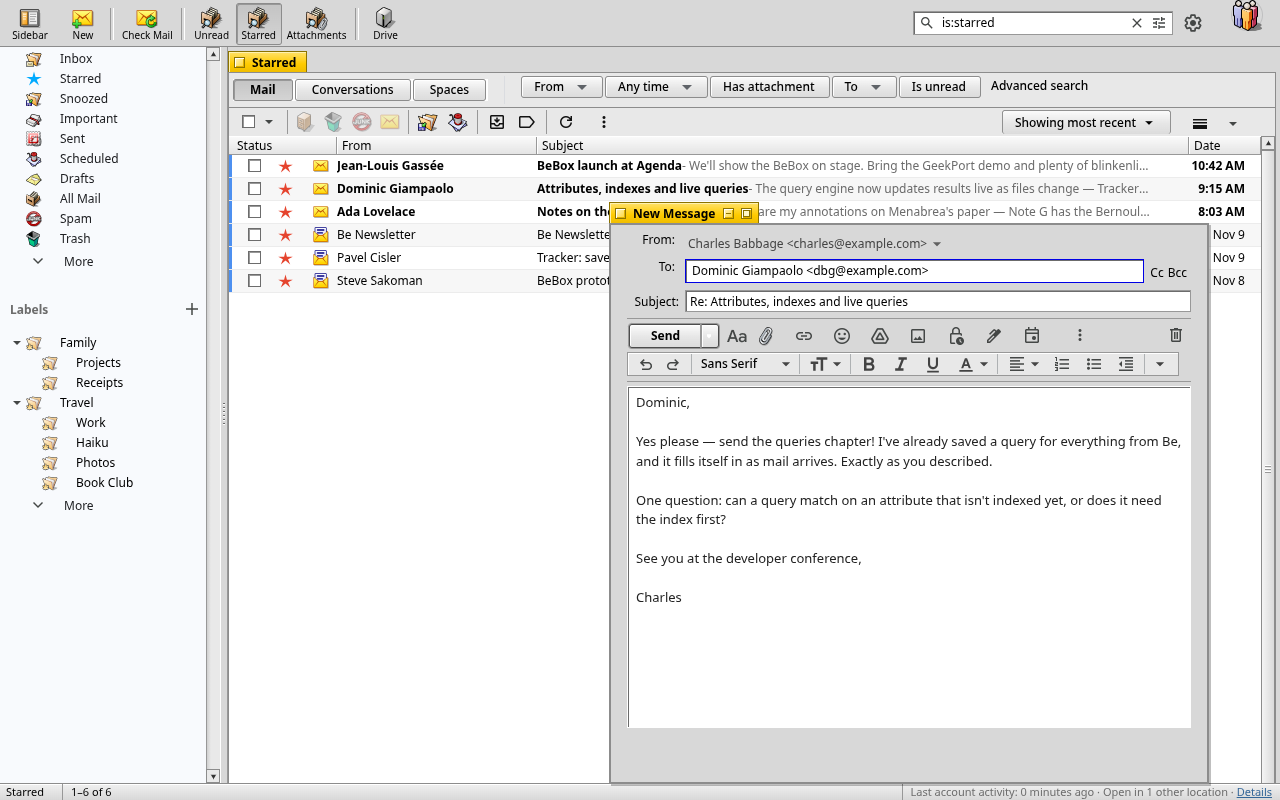
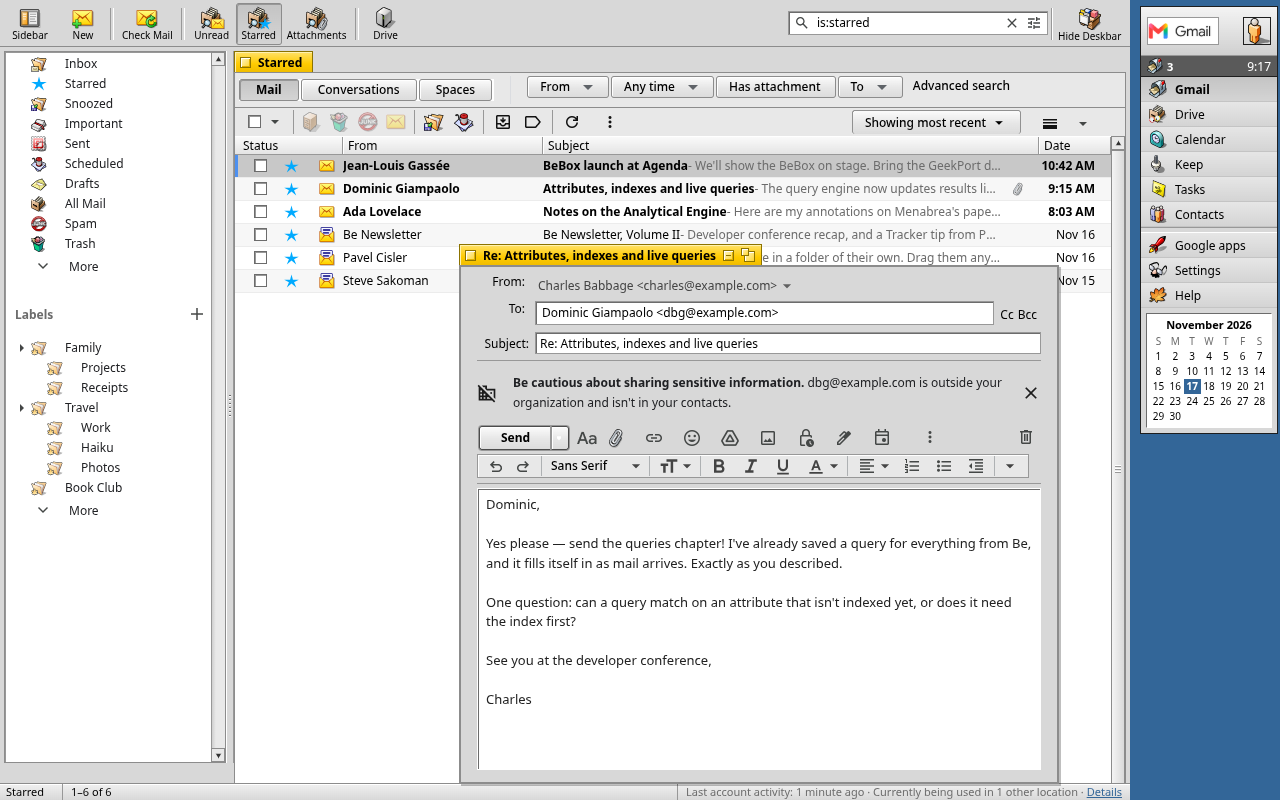
Store screenshots for 1.4.1, with a reusable sample-data script

diff --git a/tools/store-sample.js b/tools/store-sample.js
@@ -1,0 +1,173 @@
+// Sample data for the store screenshots (run in the test window's Gmail page
+// via crdrive.py / ffdrive.py {"js": ...}; see store/LISTING.md).
+//
+// Rewrites what is on screen only - names, subjects, labels, the account
+// picture - so no real mail shows in the pictures. Nothing is sent to Gmail;
+// a page reload brings the real page back. Defines window.haikuSample with
+// one function per scene part; each returns a short report.
+(() => {
+  const ME = { name: "Charles Babbage", email: "charles@example.com" };
+  const INBOX = [
+    ["Jean-Louis Gassée", "jlg@example.com", "BeBox launch at Agenda", "We'll show the BeBox on stage. Bring the GeekPort demo and plenty of blinkenlights.", "10:42 AM", 1, 1],
+    ["Dominic Giampaolo", "dbg@example.com", "Attributes, indexes and live queries", "The query engine now updates results live as files change — Tracker just watches.", "9:15 AM", 1, 1],
+    ["Ada Lovelace", "ada@example.com", "Notes on the Analytical Engine", "Here are my annotations on Menabrea's paper — Note G has the Bernoulli numbers.", "8:03 AM", 1, 1],
+    ["Be Newsletter", "newsletter@example.com", "Be Newsletter, Volume II", "Developer conference recap, and a Tracker tip from Pavel.", "Nov 16", 0, 1],
+    ["Pavel Cisler", "pavel@example.com", "Tracker: saved queries", "Queries now live in a folder of their own. Drag them anywhere you like.", "Nov 16", 0, 1],
+    ["Steve Sakoman", "sakoman@example.com", "BeBox prototype boards", "The dual-603 boards are back from the fab, and the lights blink!", "Nov 15", 0, 1],
+    ["Grace Hopper", "grace@example.com", "Compiler meeting moved to Thursday", "Same room as last time. Bring the nanoseconds.", "Nov 15", 0, 0],
+    ["Haiku Weekly", "weekly@example.com", "What's new in R1/beta6", "Faster networking, new icons and a better Tracker.", "Nov 14", 0, 0],
+    ["Alan Turing", "alan@example.com", "Chess puzzle for you", "White to move and mate in three. No machines allowed!", "Nov 13", 0, 0],
+    ["Hedy Lamarr", "hedy@example.com", "Frequency hopping patent", "The paperwork came back. We should celebrate!", "Nov 12", 0, 0],
+  ];
+  // [name, depth]
+  const LABELS = [["Family", 0], ["Projects", 1], ["Receipts", 1], ["Travel", 0], ["Work", 1], ["Haiku", 1], ["Photos", 1], ["Book Club", 0]];
+
+  const vis = (sel, root = document) => [...root.querySelectorAll(sel)].filter((e) => e.offsetParent || e.getClientRects().length);
+  const setText = (el, t) => { if (el) el.textContent = t; };
+  const iconBase = (() => {
+    const img = document.querySelector(".haiku-toolbar img");
+    return img ? img.src.replace(/[^/]+\.svg.*$/, "") : "";
+  })();
+
+  // The list on screen: `rows` sample rows, the rest hidden.
+  function list(only) {
+    const rows = only ? INBOX.filter((r) => r[6]) : INBOX;
+    let trs = vis('[role="main"] tr.zA');
+    // Fewer real rows than sample ones: copies of the last row fill the list.
+    while (trs.length && trs.length < rows.length) {
+      const copy = trs[trs.length - 1].cloneNode(true);
+      copy.dataset.haikuSampleCopy = "";
+      trs[trs.length - 1].after(copy);
+      trs = vis('[role="main"] tr.zA');
+    }
+    trs.forEach((tr, i) => {
+      const r = rows[i];
+      if (!r) { tr.style.display = "none"; return; }
+      const [name, email, subject, snippet, date, unread, starred] = r;
+      tr.classList.toggle("zE", !!unread);
+      tr.classList.toggle("yO", !unread);
+      // The sender cell: one sample sender, whatever Gmail put there (a
+      // search shows every person in the conversation).
+      const yw = tr.querySelector("td.yX .yW");
+      if (yw) {
+        const who = document.createElement("span");
+        who.className = unread ? "zF" : "yP";
+        who.setAttribute("name", name); who.setAttribute("email", email);
+        who.textContent = name;
+        const wrap = document.createElement("span");
+        wrap.className = "bA4";
+        wrap.append(who);
+        yw.replaceChildren(wrap);
+      }
+      tr.querySelectorAll("td.yX .bx0, td.yX .afn").forEach((e) => e.remove());
+      const subj = tr.querySelector(".y6 .bog span") || tr.querySelector(".y6 .bog");
+      setText(subj, subject);
+      tr.querySelectorAll(".y6 .bog").forEach((b) => b.classList.toggle("bqe", !!unread));
+      const snip = tr.querySelector("span.y2");
+      if (snip) snip.textContent = ` - ${snippet}`;
+      tr.querySelectorAll(".yi .ar, .xT .ar, .brd, .aKS").forEach((e) => e.remove());
+      const d = tr.querySelector("td.xW span[title]");
+      if (d) { d.setAttribute("title", date); d.setAttribute("aria-label", date); setText(d.querySelector("span") || d, date); }
+      const star = tr.querySelector("td.apU span.T-KT");
+      if (star) {
+        star.className = starred ? "T-KT xn Uieduc" : "T-KT";
+        const t = starred ? "Starred" : "Not starred";
+        star.setAttribute("aria-label", t); star.setAttribute("data-tooltip", t);
+      }
+    });
+    const n = Math.min(trs.length, rows.length);
+    vis('[role="main"] .Dj, [gh="mtb"] .Dj').forEach((p) => { p.textContent = `1–${n} of ${n}`; });
+    return `list: ${n} rows (of ${trs.length})`;
+  }
+
+  // The folder list's labels, the account and the counts.
+  function chrome(unread = 3) {
+    const nav = document.querySelector(".aqn.aIH");
+    let done = 0;
+    if (nav) {
+      // Gmail's own folders keep their names; only the user's labels change.
+      const rows = vis(".aim", nav).filter((r) => r.querySelector('a[href*="#label/"]'));
+      rows.forEach((row, i) => {
+        const l = LABELS[i];
+        if (!l) { row.style.display = "none"; return; }
+        const a = row.querySelector("a");
+        if (a) { a.textContent = l[0]; a.setAttribute("aria-label", l[0]); a.title = l[0]; }
+        row.querySelectorAll(".bsU").forEach((c) => { c.textContent = ""; });
+        const tn = row.querySelector(".TN");
+        if (tn) tn.setAttribute("style", `margin-left: ${12 * l[1]}px`);
+        // An expand arrow only on a label with sublabels under it.
+        const next = LABELS[i + 1];
+        row.querySelectorAll(".TH").forEach((a) => { a.style.visibility = next && next[1] > l[1] ? "visible" : "hidden"; });
+        row.querySelectorAll(".n0").forEach((b) => { b.style.fontWeight = "normal"; });
+        done++;
+      });
+      vis(".aim", nav).forEach((row) => { const c = row.querySelector(".bsU"); if (c && /inbox/i.test(row.textContent)) c.textContent = String(unread); });
+    }
+    // The account picture and the Workspace logo the Deskbar copies.
+    const face = document.querySelector('header a[aria-label^="Google Account"] img');
+    if (face && iconBase) face.src = `${iconBase}person.svg`;
+    const lockup = document.querySelector('header img[src*="logo_gmail"]');
+    const logo = [...document.querySelectorAll("header img")].find((i) => /logo\.gif/.test(i.src));
+    if (logo && lockup) {
+      const pill = logo.closest('[role="button"]');
+      if (pill) pill.style.display = "none";
+      logo.src = lockup.src;
+    }
+    document.querySelectorAll("#haiku-deskbar .hd-top img").forEach((i, k) => { i.src = k === 0 ? (lockup ? lockup.src : "") : `${iconBase}person.svg`; });
+    // Window title (status bar, Deskbar count) without the address.
+    const folder = (document.title.split(" - ")[0] || "Inbox").replace(/\s*\(\d[\d,]*\)$/, "");
+    document.title = `${folder}${unread && /^Inbox/.test(folder) ? ` (${unread})` : ""} - ${ME.email} - Gmail`;
+    const count = document.querySelector("#haiku-deskbar .hd-count");
+    if (count) count.textContent = String(unread);
+    return `labels: ${done}`;
+  }
+
+  // The open message.
+  function message(m) {
+    const subj = vis("h2.hP")[0];
+    setText(subj, m.subject);
+    // The label chips beside the subject (External, Inbox, Updates...).
+    document.querySelectorAll(".ha .aau, .ha .ahR").forEach((e) => e.style.setProperty("visibility", "hidden", "important"));
+    const msg = vis(".adn")[0];
+    if (!msg) return "no message";
+    const from = msg.querySelector(".gD");
+    if (from) { from.textContent = m.name; from.setAttribute("name", m.name); from.setAttribute("email", m.email); }
+    const pic = msg.querySelector(".aju img.ajn");
+    if (pic && iconBase) pic.src = `${iconBase}person.svg`;
+    const go = msg.querySelector(".go");
+    if (go) go.textContent = `<${m.email}>`;
+    msg.querySelectorAll(".gE .g3").forEach((d) => { d.textContent = m.date; d.title = m.date; });
+    msg.querySelectorAll(".gE .Ca, .gE .aVp, .gE [role=link][data-tooltip*=nsubscribe]").forEach((e) => (e.style.display = "none"));
+    const to = msg.querySelector(".hb .g2, .hb span[email]");
+    if (to) { to.textContent = "me"; to.setAttribute("email", ME.email); }
+    const body = msg.querySelector(".a3s");
+    if (body) {
+      body.replaceChildren(...m.body.map((p) => { const d = document.createElement("div"); d.textContent = p; d.style.margin = "0 0 12px"; return d; }));
+    }
+    document.querySelectorAll(".haiku-status-folder").forEach((e) => (e.textContent = m.subject));
+    document.title = `${m.subject} - ${ME.email} - Gmail`;
+    const count = document.querySelector("#haiku-deskbar .hd-count");
+    if (count) count.textContent = String(m.unread == null ? 3 : m.unread);
+    return "message";
+  }
+
+  // The New Message window: From, To, Subject and the text, on screen only.
+  function compose(c) {
+    const w = vis(".nH.Hd")[0];
+    if (!w) return "no compose";
+    w.querySelectorAll(".aoD.az6 span, .J-J5-Ji.J-JN-M-I-Jm span, .az2 span").forEach((s) => { if (/@/.test(s.textContent)) s.textContent = `${ME.name} <${ME.email}>`; });
+    [...w.querySelectorAll("*")].filter((e) => e.childElementCount === 0 && /@thedorsons|<.*@.*>/.test(e.textContent) && !e.closest(".Am")).forEach((e) => (e.textContent = `${ME.name} <${ME.email}>`));
+    const to = w.querySelector('input[aria-label^="To"], input[name="to"], input[peoplekit-id]');
+    if (to) to.value = c.to;
+    const subj = w.querySelector('input[name="subjectbox"]');
+    if (subj) subj.value = c.subject;
+    const body = w.querySelector(".Am.Al.editable");
+    if (body) body.replaceChildren(...c.body.map((p) => { const d = document.createElement("div"); d.textContent = p || " "; return d; }));
+    const title = w.querySelector(".aYF");
+    if (title) title.textContent = c.subject;
+    return "compose";
+  }
+
+  window.haikuSample = { list, chrome, message, compose, INBOX, ME };
+  return "haikuSample ready";
+})();

diff --git a/store/LISTING.md b/store/LISTING.md
@@ -74,9 +74,22 @@ folder use sample data (no real mail).
 | `screenshot-3-queries.png` | Screenshot 3 (a query's results and its right-click menu) |
 | `screenshot-4-query-dialog.png` | Screenshot 4 (the Edit Query dialog) |
 | `screenshot-5-compose.png` | Screenshot 5 |
-| `screenshot-6-deskbar.png` | Screenshot 6 (the Deskbar, sample data) |
+| `screenshot-6-deskbar.png` | Screenshot 6 (the app-window sidebar style of the Deskbar) |
 | `promo-440x280.png` | Small promo tile (440×280) |
 | `marquee-1400x560.png` | Marquee promo tile (1400×560, optional) |
+
+All screenshots use sample mail, never real messages. To retake them: start
+the Chrome test window at 1x (`CR_EXT=$PWD/dist/haiku-theme-for-gmail-chrome
+CR_SCALE=1 ... tools/crdrive.py serve`), set a 1280×800 viewport with
+`{"cdp":"Emulation.setDeviceMetricsOverride","params":{"width":1280,"height":800,"deviceScaleFactor":1,"mobile":false}}`,
+load `tools/store-sample.js` (send it as `{"js":"return " + its IIFE}`), then
+per scene call `haikuSample.list()`, `.chrome()`, `.message({...})` or
+`.compose({...})`. It only changes what's on screen; reload the page to undo.
+Check each picture for real names before saving. Save as 24-bit RGB PNG
+(`magick in.png -alpha off -depth 8 -define png:color-type=2 out.png`): the
+Chrome Web Store rejects 16-bit and alpha images. Firefox Add-ons takes them
+through its API (previews: POST `image`, then PATCH the caption); the Chrome
+Web Store only through its dashboard.
 
 ## Privacy practices
 
